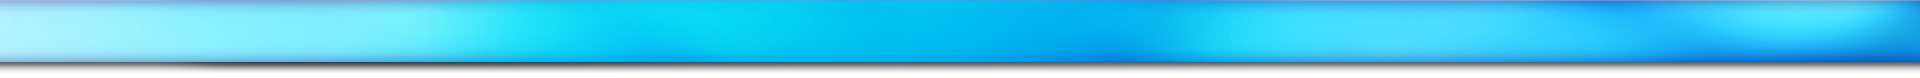
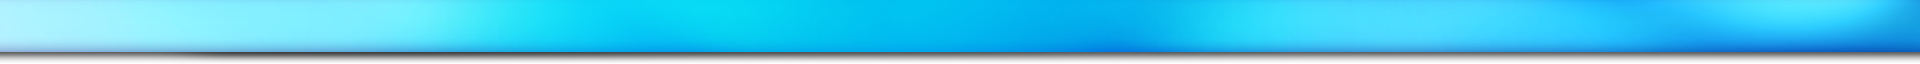
refs #383. second commit related to the style of the new template. It is done because it also implies changes in the base css that could affect the catalogue style.
git-svn-id: file:///home/borja/svnDUMPS/ezwebplatform@2068 2a98c5bb-d66c-48ca-a96c-db028a6c31f4

Changed region(s): [[0.0, 0.7812, 1.0, 0.9688], [0.4688, 0.0, 1.0, 0.0938], [0.0, 0.0, 0.4375, 0.0938]]

diff --git a/ezweb_platform/src/trunk/media/themes/darkBlue/css/ezweb.css b/ezweb_platform/src/trunk/media/themes/darkBlue/css/ezweb.css
@@ -1,5 +1,5 @@
 body {
-	color:#000;
+	color:#000000;
 	background: url("../images/fondo.jpg") repeat top left;
     margin:0;
     padding:0;
@@ -8,12 +8,13 @@ body {
     overflow: hidden;
 }
 
-a {
-	color:red;
+a, a:visited{
+	color:#3483a5;
 }
 
-a:hover {
-	color:red;
+input[type="text"], textarea{
+	border: none;
+	-moz-border-radius: 3%;
 }
 
 #loading-indicator {
@@ -35,8 +36,9 @@ div.floatclearer {
 
 /* header ------------------------------------------------------------------------------------------ */
 #header {
-	background: url("../images/header.png") repeat-x top left;
+	background: url("../images/header.png") repeat-x left top;
 	color:white;
+	height: 65px;
 }
 
 .form-row input[type="submit"] {
@@ -45,13 +47,11 @@ div.floatclearer {
 }
 
 #content-main .registration a{
-	color:#2D6F9C;
+	color:#3483a5;
 }
 
-
-
-#greeting a{
-	color:white;
+#greeting a, #greeting a:visited{
+	color:#3483a5;
 }
 
 #greeting .languages a{
@@ -59,11 +59,11 @@ div.floatclearer {
 }
 
 #logo {
-	padding-top:15px;
+	padding-top:5px;
 }
 
 #tab_section {
- top: 13px;
+ top: 5px;
 }
 
 #add_tab_link, #left_slider, #right_slider {
@@ -81,7 +81,11 @@ div.floatclearer {
 
 .ws_name{
   border: 0px none;
+  height: 13px;
+  font-size: 90%;
+  margin-top: 3px;
 }
+
 
 #dragboard_link{
 	padding: 0 7px;
@@ -89,14 +93,14 @@ div.floatclearer {
 
 #workspace_menu_link{
 	margin: 0 auto;
-	width: 28px;
-	height: 11px;
+	width: 19px;
+	height: 8px;
 	padding-top: 5px;
 }
 
 #ws_operations_link {
-	width: 28px;
-	height: 11px;
+	width: 19px;
+	height: 8px;
   	background: transparent url(../images/menu-arrow-selected.png) no-repeat scroll 0 0;
 }
 
@@ -109,16 +113,15 @@ div.floatclearer {
 .toolbar_marked {
 	color: white;
 	font-weight: bold;
-	background: transparent url(../images/button-center-selected.png) repeat-x scroll left top;
+	background: transparent url(../images/button-selected.png) repeat-x scroll left top;
 }
 
-.toolbar_unmarked:hover {
+.toolbar_unmarked:hover,#add_tab_link {
 	color: white;
-	background: transparent url(../images/button-center-selected.png) repeat-x scroll left top;
 }
 .toolbar_unmarked {
-	color: #b4d7ec;
-	background: transparent url(../images/button-center.png) repeat-x scroll left top;
+	color: #b5d7ed;
+	background: transparent url(../images/button.png) repeat-x scroll left top;
 }
 
 #left_slider{
@@ -140,12 +143,12 @@ div.floatclearer {
 }
 
 .message_box{
-	color: #000000;
+	color: #FFFFFF;
 }
 
 #add_tab_link {
-  background: #FFFFFF url(../images/addTab16px.png) no-repeat scroll 1px 1px;
-  
+	color: #B5D7ED;
+	background: #666666 url(../images/button-selected.png) repeat-x scroll left top;
 }
 
 #tab_section .tab {
@@ -188,17 +191,18 @@ div.floatclearer {
 }
 
 .disabled_background {
-  background-color: #6699cc;
+  background-color: #FFFFFF;
 }
 
 .drop_down_menu, .window_menu{
-  background: #FFFFFF;
+  background: transparent url(../images/menu.png) repeat scroll 0 0;
   -moz-border-radius: 6px;
   -webkit-border-radius: 6px;
+  color: #FFFFFF;
 }
 
 .drop_down_menu {
-  border: solid 1px #AAAAAA;
+  color: #b5d7ed;
 }
 
 .drop_down_menu .border_bottom{
@@ -210,15 +214,11 @@ div.floatclearer {
 }
 
 .underlined {
-  border-bottom: solid 1px #AAAAAA;
-}
-
-.window_menu {
-  border: 2px solid #2D6F9C;
+ 
 }
 
 .window_menu .window_title {
-  color: #2D6F9C;
+  color: #FFFFFF;
 }
 
 .window_menu .window_content {
@@ -246,9 +246,10 @@ div.floatclearer {
 }
 
 button {
-  background: transparent url(../images/button.gif) repeat;
+  background: transparent url(../images/button.png) repeat;
   border: medium none;
   color: white;
+  -moz-border-radius: 15%;
 }
 
 
@@ -313,7 +314,6 @@ button {
 }
 
 #logs_header a {
-    color:darkBlue;
     text-decoration:underline;
 }
 

diff --git a/ezweb_platform/src/trunk/media/themes/default/css/ezweb.css b/ezweb_platform/src/trunk/media/themes/default/css/ezweb.css
@@ -29,6 +29,7 @@ div.floatclearer {
 #header {
 	background: url("../images/header_deg.gif") repeat-x top left;
 	color:white;
+	height: 74px;
 }
 
 .form-row input[type="submit"] {
@@ -42,7 +43,7 @@ div.floatclearer {
 
 
 
-#greeting a{
+#greeting a, #greeting a:visited{
 	color:white;
 }
 
@@ -55,10 +56,8 @@ div.floatclearer {
 }
 
 #tab_section {
- top: 13px;
+ top: 10px;
 }
-
-
 
 
 .toolbar_section input[type=button], #add_tab_link, #left_slider, #right_slider {
@@ -68,8 +67,10 @@ div.floatclearer {
   border: 0px none;
   cursor: pointer;
 }
+
 .ws_name{
   border: 0px none;
+  height: 15px;
 }
 
 #workspace_name {
@@ -79,14 +80,14 @@ div.floatclearer {
 
 #workspace_menu_link{
 	margin: 0 auto;
-	width: 28px;
-	height: 11px;
+	width: 19px;
+	height: 8px;
 	padding-top: 5px;
 }
 
 #ws_operations_link {
-	width: 28px;
-	height: 11px;
+	width: 19px;
+	height: 8px;
   	background: transparent url(../images/menu-arrow-selected.png) no-repeat scroll 0 0;
 }
 

diff --git a/ezweb_platform/src/trunk/media/css/ezweb.css b/ezweb_platform/src/trunk/media/css/ezweb.css
@@ -23,7 +23,6 @@ td {
 #header {
     position: relative;
     width:100%;
-    height: 77px;
     z-index: 2;
 }
 .form-row {
@@ -126,15 +125,6 @@ td {
   white-space: nowrap;
 }
 
-/*.toolbar_section input[type=button], #add_tab_link, #left_slider, #right_slider {
-  position: relative;
-  margin-left: 3px;
-  margin-right: 3px;
-  height: 21px;
-  width: 21px;
-  cursor: pointer;
-}REVISAR COMPATIBILIDAD con esto y los 2 siguientes estilos*/
-
 .toolbar_section input[type=button]{
 	border: 0px none;
   	cursor: pointer;
@@ -151,7 +141,6 @@ td {
 
 .ws_name{
   max-width: 130px;
-  height: 15px;
 }
 
 #workspace_name {
@@ -331,10 +320,6 @@ td {
 	padding-left: 18px;
 }
 
-.underlined {
-  border-bottom: solid 1px #AAAAAA;
-}
-
 .window_menu {
   max-width:50%;
   padding: 0.8em 1.8em;
@@ -411,6 +396,7 @@ td {
 
 button {
   margin: 3px;
+  cursor: pointer;
 }
 
 

diff --git a/ezweb_platform/src/trunk/media/js/interfaceLayout/DropDownMenu.js b/ezweb_platform/src/trunk/media/js/interfaceLayout/DropDownMenu.js
@@ -61,6 +61,10 @@ DropDownMenu.prototype.calculatePosition = function() {
 		var smHeight = this.menu.getHeight();
 		this.y -= smHeight;
 	}
+	if(this.position.indexOf('center') != -1) {
+		var smWidth = this.menu.getWidth();
+		this.x -= smWidth/2;
+	}
 	//set position
 	this.menu.style.top = this.y +"px";
 	this.menu.style.left = this.x +"px";

diff --git a/ezweb_platform/src/trunk/media/js/interfaceLayout/LayoutManager.js b/ezweb_platform/src/trunk/media/js/interfaceLayout/LayoutManager.js
@@ -504,7 +504,7 @@ var LayoutManagerFactory = function () {
 				break;
 			case 'workSpaceOps':
 				this.currentMenu = menu;
-				this.currentMenu.show('right', x, y);
+				this.currentMenu.show('center', x, y);
 				this.showClickableCover();
 				break;
 			case 'tabOps':

diff --git a/ezweb_platform/src/trunk/media/themes/darkBlue/css/dragboard.css b/ezweb_platform/src/trunk/media/themes/darkBlue/css/dragboard.css
@@ -26,10 +26,6 @@ div.gadget_menu {
 div.dragboard.fixed div.gadget_menu {
 }
 
-div.dragboard.fixed {
-  background: #ffffff;
-}
-
 div.gadget_window div.gadget_menu input[type="button"].closebutton {
   background: url("../images/igadget/close.png");
 }
